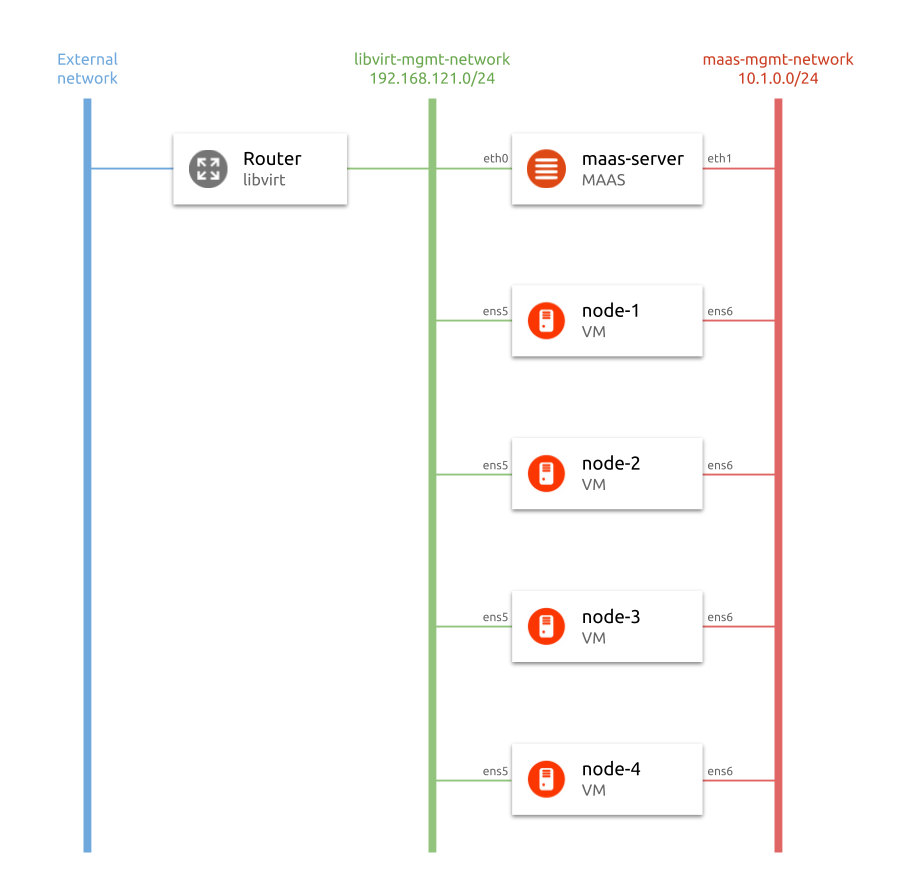
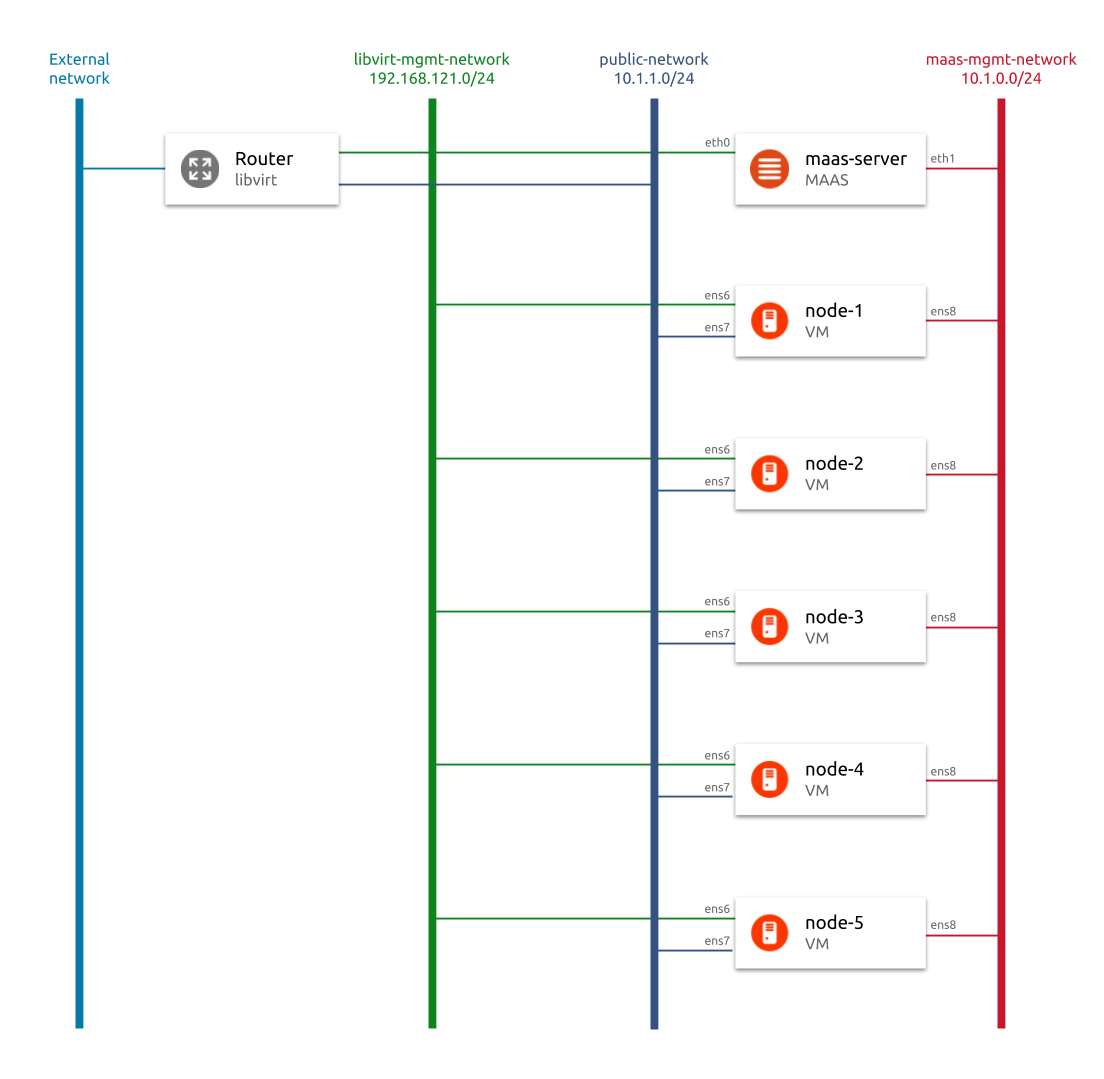
Add Juju provisioning and OpenStack deployment description.

Changed region(s): [[0.031, 0.0303, 0.9933, 0.9708]]

diff --git a/README.md b/README.md
@@ -62,7 +62,7 @@ Make sure that you have installed Vagrant and Ansible.
 
 8.  Now that DHCP in MAAS is enabled, deploy PXE machines. They will be controlled by MAAS.
 
-        (vagrant-host)$ vagrant up node-1 node-2 node-3 node-4 --provider libvirt
+        (vagrant-host)$ vagrant up node-1 node-2 node-3 node-4 node-5 --provider libvirt
     
     Observe how machines are booting via PXE and enlisting in MAAS.
 
@@ -76,7 +76,7 @@ Make sure that you have installed Vagrant and Ansible.
 
     **Web GUI:** 
 
-    In `Machines` menu, select all machines and click `Take action` → `Commission` → `Commission 4 machines`. 
+    In `Machines` menu, select all machines and click `Take action` → `Commission` → `Commission 5 machines`. 
     
     Observe how machines are commissioned in both virt-manager's VM window and in MAAS: see tab `Commissioning` for each node.
 
@@ -88,7 +88,76 @@ Make sure that you have installed Vagrant and Ansible.
         ./set-ip-mode-dhcp.sh node-2 fabric-0 192.168.121.0/24
         ./set-ip-mode-dhcp.sh node-3 fabric-0 192.168.121.0/24
         ./set-ip-mode-dhcp.sh node-4 fabric-0 192.168.121.0/24
+        ./set-ip-mode-dhcp.sh node-5 fabric-0 192.168.121.0/24
+        
+        ./set-ip-mode-dhcp.sh node-1 fabric-0 10.1.1.0/24
+        ./set-ip-mode-dhcp.sh node-2 fabric-0 10.1.1.0/24
+        ./set-ip-mode-dhcp.sh node-3 fabric-0 10.1.1.0/24
+        ./set-ip-mode-dhcp.sh node-4 fabric-0 10.1.1.0/24
+        ./set-ip-mode-dhcp.sh node-5 fabric-0 10.1.1.0/24
 
 11. (Optional) Deploy Ubuntu on a machine.
 
     Select `Take action` → `Deploy` on selected machine to deploy Ubuntu. Once the machine is in state `Deployed`, you can ssh to it from maas-server. In order to learn the IP address assigned by MAAS to this machine, check `DNS` menu.
+
+
+# Deploy OpenStack on top of MAAS    
+
+## Install and configure Juju
+
+To manually install and configure Juju on maas-server, run the following commands:
+
+        sudo snap install juju --classic
+        juju add-cloud
+        
+-   Cloud type: maas
+-   Cloud name: maas-cloud
+-   API endpoint url: http://10.1.0.1:5240/MAAS
+
+        juju add-credential maas-cloud
+        
+-   Credential name: maas-credential
+-   maas-oauth: \[copy from http://<maas-ip>:5240/MAAS/account/prefs/ or fetch via CLI: `sudo maas apikey --username=admin`\]
+
+Alternatively, the above can be automated with Ansible, and that is the approach I choose. See playbook.yml for details 
+such as generation of clouds.yaml and credentials.yaml.
+
+Then, bootstrap Juju to create a Juju Controller:
+
+        juju bootstrap maas-cloud maas-cloud-controller
+        
+## Install OpenStack with Juju
+
+For OpenStack deployment, I choose [openstack-base](https://jujucharms.com/openstack-base/) #57 bundle.
+
+        # Download and extract bundle
+        wget https://api.jujucharms.com/charmstore/v5/openstack-base/archive -O archive.zip
+        unzip archive.zip 
+        rm archive.zip
+        
+        # Customize bundle to fit the architecture
+        sed -i 's/eno2/ens7/g' bundle.yaml
+        sed -i 's/\/dev\/sdb/\/dev\/vdb/g' bundle.yaml
+        
+        # Deploy OpenStack
+        juju deploy bundle.yaml
+        
+        # Watch deployment
+        watch -c juju status --color
+        
+Once the deployment is finished, Juju will report all units in `active` state.
+
+![OpenStack deployed](juju/openstack-deployed.png "OpenStack deployed")
+
+## Accessing Openstack
+
+To find out what is the admin password and default domain for logging into OpenStack's Horizon, run the following
+commands: 
+
+        source novarc
+        env | grep OS_
+
+Run this command on maas-server to get the URL for OpenStack dashboard:
+
+        echo "http://$(juju run --unit openstack-dashboard/0 'unit-get public-address')/horizon" 
+
